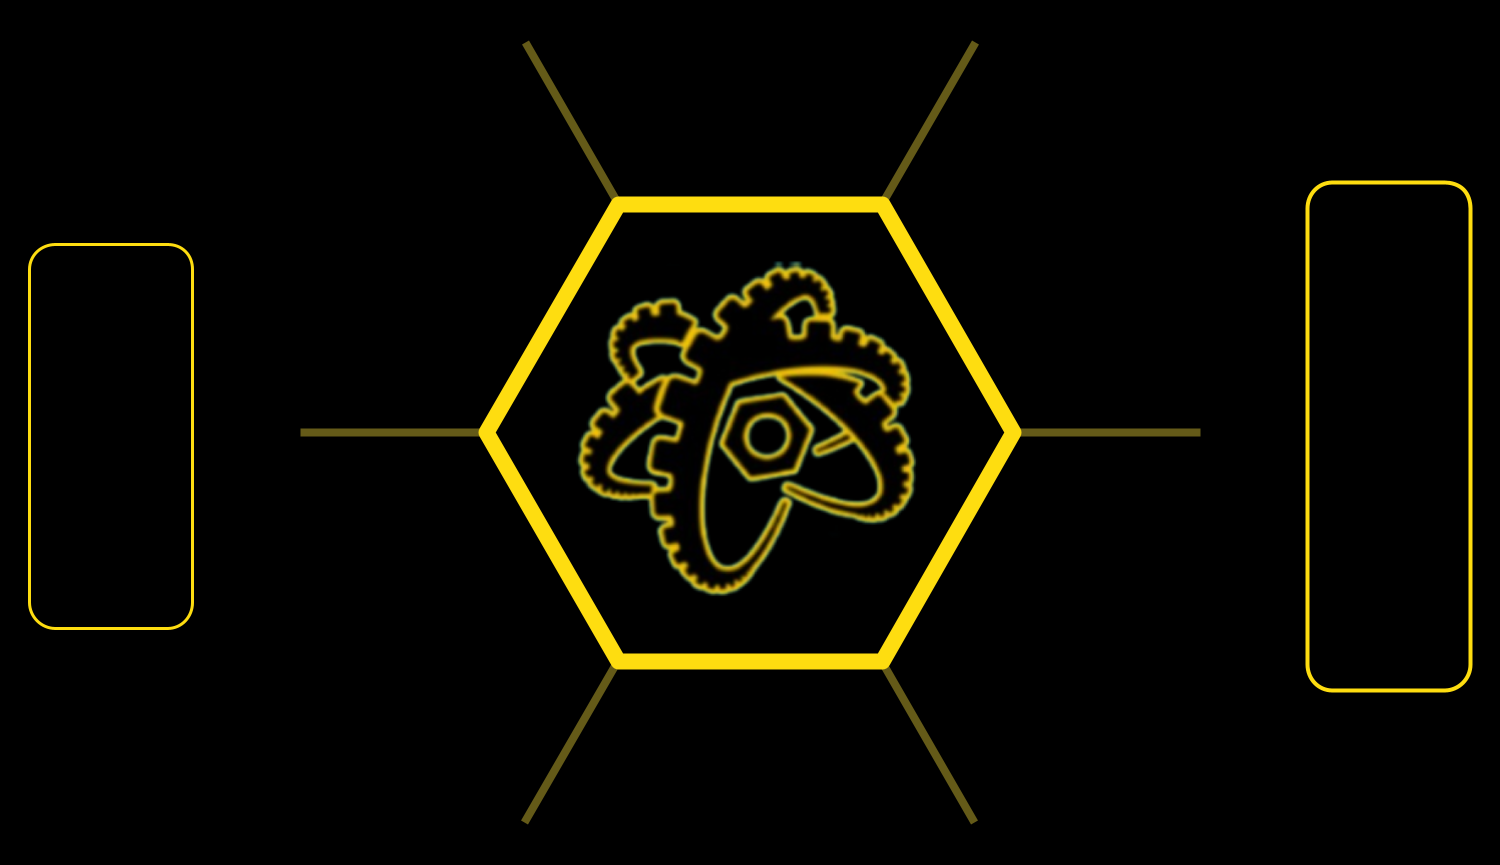
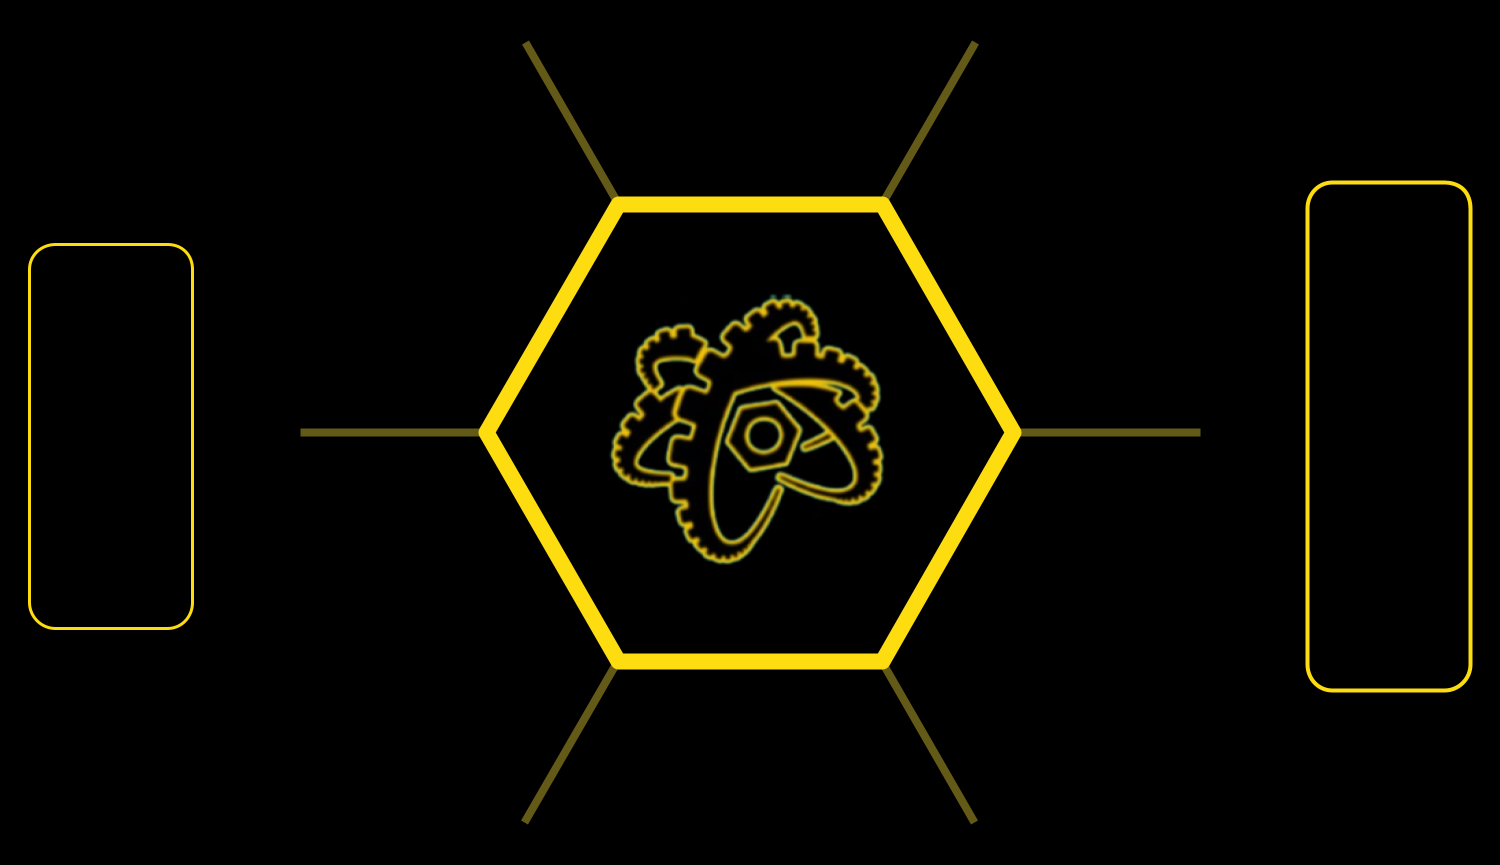
touchscreen working, fix selection bug, resized GUI bits

Changed region(s): [[0.368, 0.2809, 0.6133, 0.6867]]

diff --git a/subsystems/interface.py b/subsystems/interface.py
@@ -61,7 +61,7 @@ class Interface:
         self.sliders = []
         self.slidersData = []
         '''DASHBOARD STUFF'''
-        self.selectedBranch = ""
+        self.selectedBranch = " "
         self.selectedLevel = 0
         self.alliance = ""
         self.needUpdate = True
@@ -117,24 +117,27 @@ class Interface:
             if 0 <= self.interacting <= 11:
                 new = "ABCDEFGHIJKL"[self.interacting]
                 if self.selectedBranch != new: self.selectedBranch = new
-                else: self.selectedBranch = ""
+                else: self.selectedBranch = " "
             elif 51 <= self.interacting <= 54:
                 new = self.interacting - 50
-                if self.selectedLevel != new: self.selectedLevel = new
-                else: self.selectedLevel = 0
+                if self.selectedLevel != new: 
+                    self.selectedLevel = new
+                    if self.selectedBranch == "processor": self.selectedBranch = " "
+                else: 
+                    self.selectedLevel = 0
             elif self.interacting == -49:
                 self.selectedBranch = "processor"
                 self.selectedLevel = 0
             elif self.interacting == -50:
                 if self.selectedBranch == "processor":
                     self.comms.setProcessor(True)
-                    self.selectedBranch = ""
+                    self.selectedBranch = " "
                     self.selectedLevel = 0
-                elif self.selectedBranch != "" and self.selectedLevel != 0:
+                elif self.selectedBranch != " " and self.selectedLevel != 0:
                     self.comms.setProcessor(False)
                     self.comms.setBranch(self.selectedBranch)
                     self.comms.setLevel(self.selectedLevel)
-                    self.selectedBranch = ""
+                    self.selectedBranch = " "
                     self.selectedLevel = 0
                 else: pass
             else: pass
@@ -158,13 +161,14 @@ class Interface:
         img = im.copy()
 
         placeOver(img, displayText(f"FPS: {self.fps}", "m"), (20,20))
-        placeOver(img, displayText(f"Interacting With: {self.interacting}", "m"), (20,55))
-        placeOver(img, displayText(f"length of IVO: {len(self.ivos)}", "m"), (20,90))
-        placeOver(img, displayText(f"Mouse Pos: ({self.mx}, {self.my})", "m"), (200,20))
-        placeOver(img, displayText(f"Mouse Press: {self.mPressed}", "m", colorTXT=(100,255,100,255) if self.mPressed else (255,100,100,255)), (200,55))
+        # placeOver(img, displayText(f"Interacting With: {self.interacting}", "m"), (20,55))
+        # placeOver(img, displayText(f"length of IVO: {len(self.ivos)}", "m"), (20,90))
+        # placeOver(img, displayText(f"Mouse Pos: ({self.mx}, {self.my})", "m"), (200,20))
+        # placeOver(img, displayText(f"Mouse Press: {self.mPressed}", "m", colorTXT=(100,255,100,255) if self.mPressed else (255,100,100,255)), (200,55))
 
-        # if not(COMMS):
-        #     placeOver(img, displayText(f"Comms has been disabled!", "m", colorTXT=(255,100,100,255)), (20,55))
+        placeOver(img, displayText(f"Selected: {self.selectedBranch}{" " if self.selectedLevel==0 else self.selectedLevel}", "m"), (20,55))
+        if not(COMMS):
+            placeOver(img, displayText(f"Comms has been disabled!", "m", colorTXT=(255,100,100,255)), (20,90))
 
         connected = self.comms.getIsConnected()
         placeOver(img, displayText(f"Comms: Connected: {connected}", "m", colorTXT=(100,255,100,255) if connected else (255,100,100,255)), (20,775))
@@ -177,16 +181,16 @@ class Interface:
 
         if self.alliance in STIMULATION:
             subway = getFrameFromGIF(SUBWAY_GIF, time.time()*16)
-            placeOver(img, subway, ( 210,  10))
-            placeOver(img, subway, (1150,  10))
-            placeOver(img, subway, ( 210, 615))
-            placeOver(img, subway, (1150, 615))
+            placeOver(img, subway, ( 230,  10))
+            placeOver(img, subway, (1130,  10))
+            placeOver(img, subway, ( 230, 615))
+            placeOver(img, subway, (1130, 615))
             placeOver(img, subway, ( 670, 300))
 
         for id in self.ivos:
             if self.ivos[id][0] == "a":
                 if 0 <= id <= 11:
-                    self.ivos[id][1].tick(img, self.interacting==id, self.interacting==id or id=="ABCDEFGHIJKL".find(self.selectedBranch))
+                    self.ivos[id][1].tick(img, self.interacting==id, self.interacting==id or id=="ABCDEFGHIJKL ".find(self.selectedBranch))
                 elif 51 <= id <= 54:
                     self.ivos[id][1].tick(img, self.interacting==id, self.interacting==id or id==self.selectedLevel+50)
                 elif id == -49:
